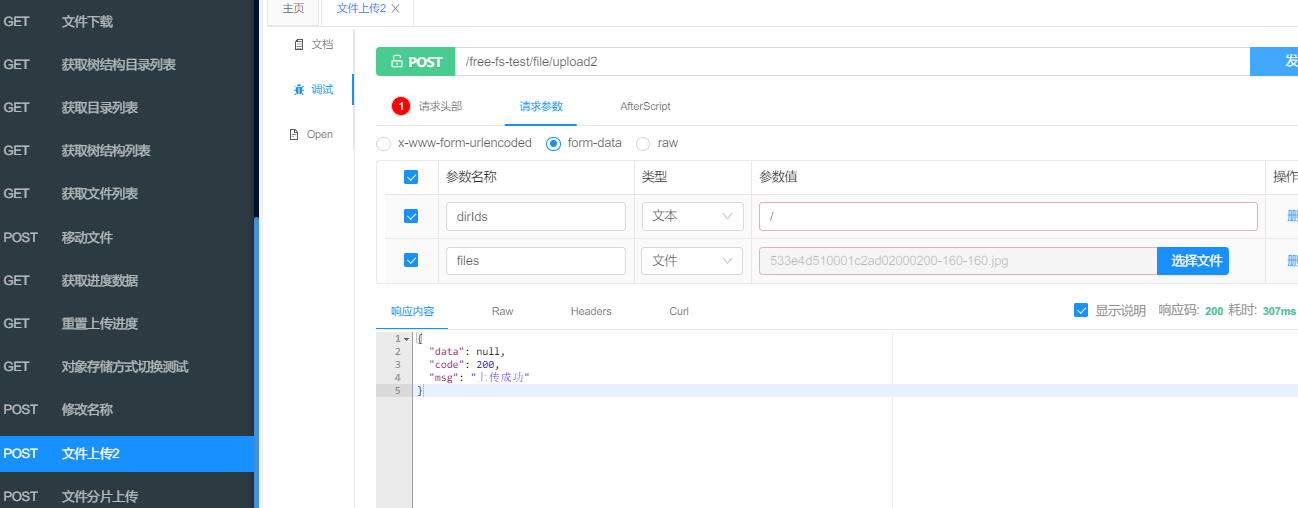
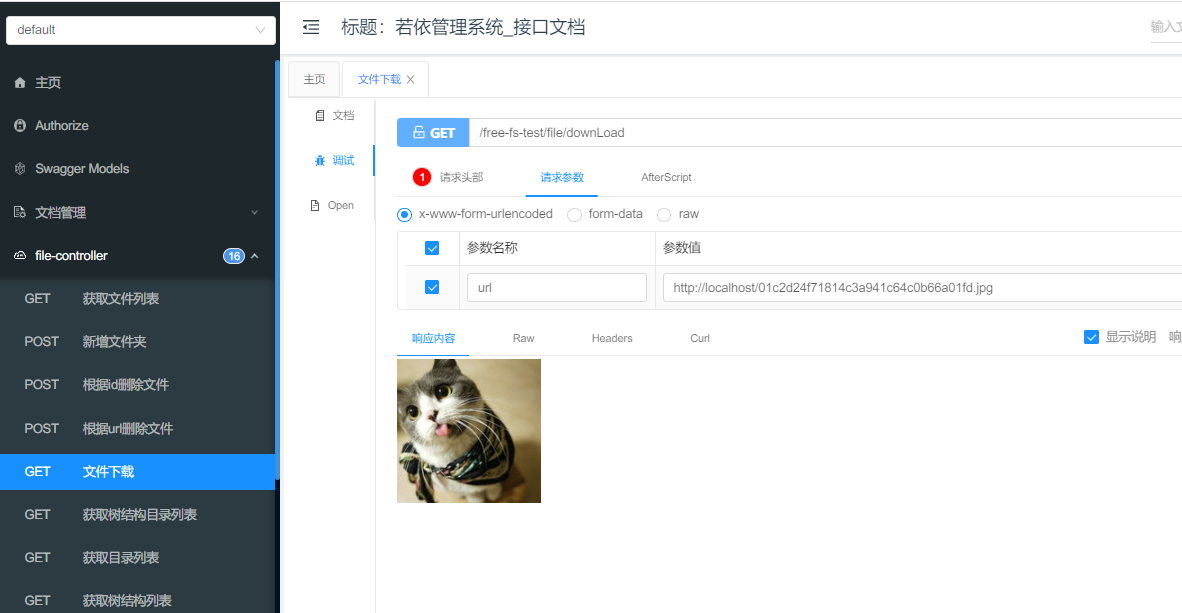
4.9.2 实现本地下载downLoad方法 使用swagger给downLoad添加详细注释并测试通过 swagger参考https://gitee.com/xiaoym/knife4j/issues/I1F40F#note_2519831_link

diff --git a/src/main/java/com/free/fs/controller/FileController.java b/src/main/java/com/free/fs/controller/FileController.java
@@ -122,9 +122,10 @@ public class FileController {
      *
      * @param url
      * @param response
+     * 参考 https://gitee.com/xiaoym/knife4j/issues/I1F40F#note_2519831_link
      */
     @ApiOperation("文件下载")
-    @GetMapping("/downLoad")
+    @GetMapping(value="/downLoad",produces = "application/octet-stream")
     public void downLoad(String url, HttpServletResponse response) {
         fileService.download(url, response);
     }

diff --git a/src/main/java/com/free/fs/common/template/LocalTemplate.java b/src/main/java/com/free/fs/common/template/LocalTemplate.java
@@ -29,7 +29,7 @@ public class LocalTemplate {
     }
 
     public void download(String url, HttpServletResponse response) {
-        System.out.println("20:25 2022/3/11 LocalTemplate download" );
+        FileUtil.downLoad(url, fileProperties.getLocal().getNgxinxUrl(), response);
     }
 
     @SneakyThrows
